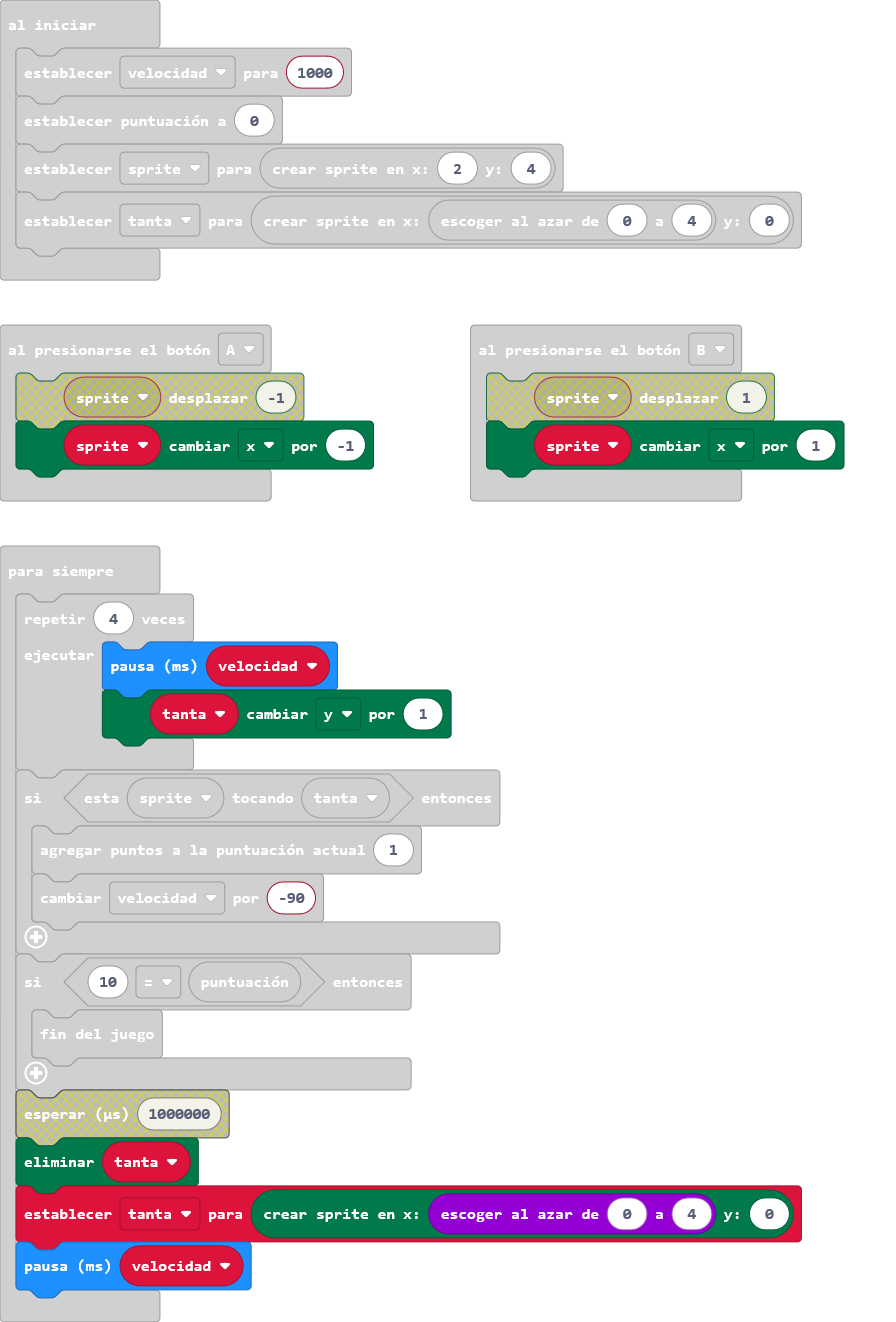
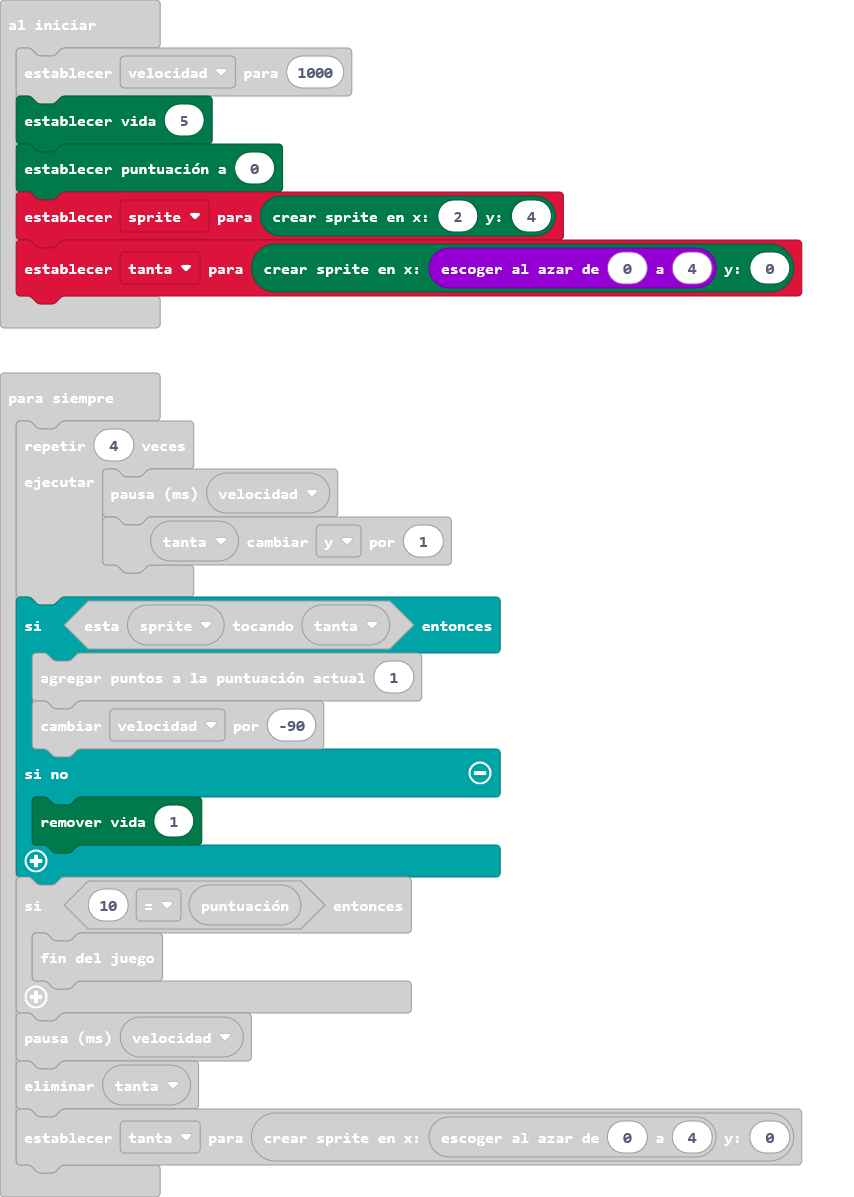
vidak sartu dizkiogu jokuari

diff --git a/main.ts b/main.ts
@@ -6,6 +6,7 @@ input.onButtonPressed(Button.B, function () {
 })
 let sprite: game.LedSprite = null
 let velocidad = 1000
+game.setLife(5)
 game.setScore(0)
 sprite = game.createSprite(2, 4)
 let tanta = game.createSprite(randint(0, 4), 0)
@@ -17,6 +18,8 @@ basic.forever(function () {
     if (sprite.isTouching(tanta)) {
         game.addScore(1)
         velocidad += -90
+    } else {
+        game.removeLife(1)
     }
     if (10 == game.score()) {
         game.gameOver()
